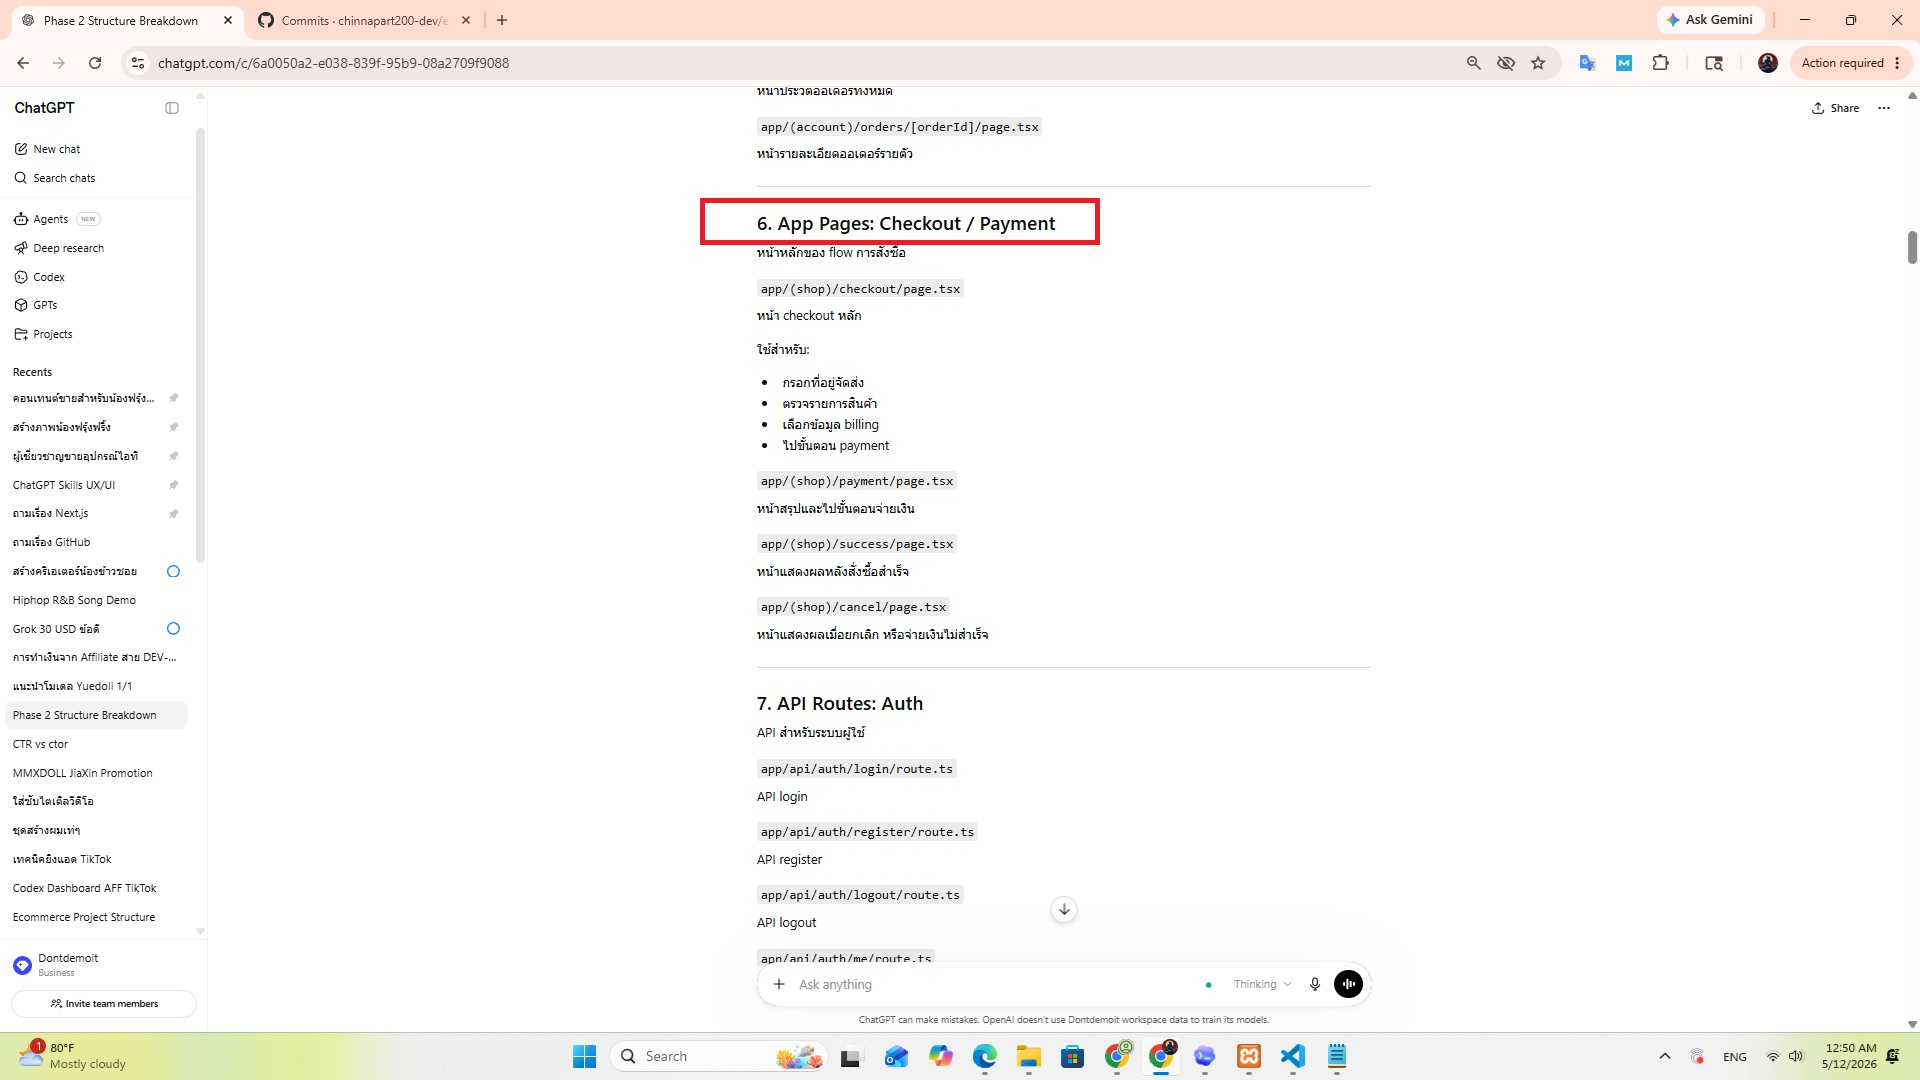
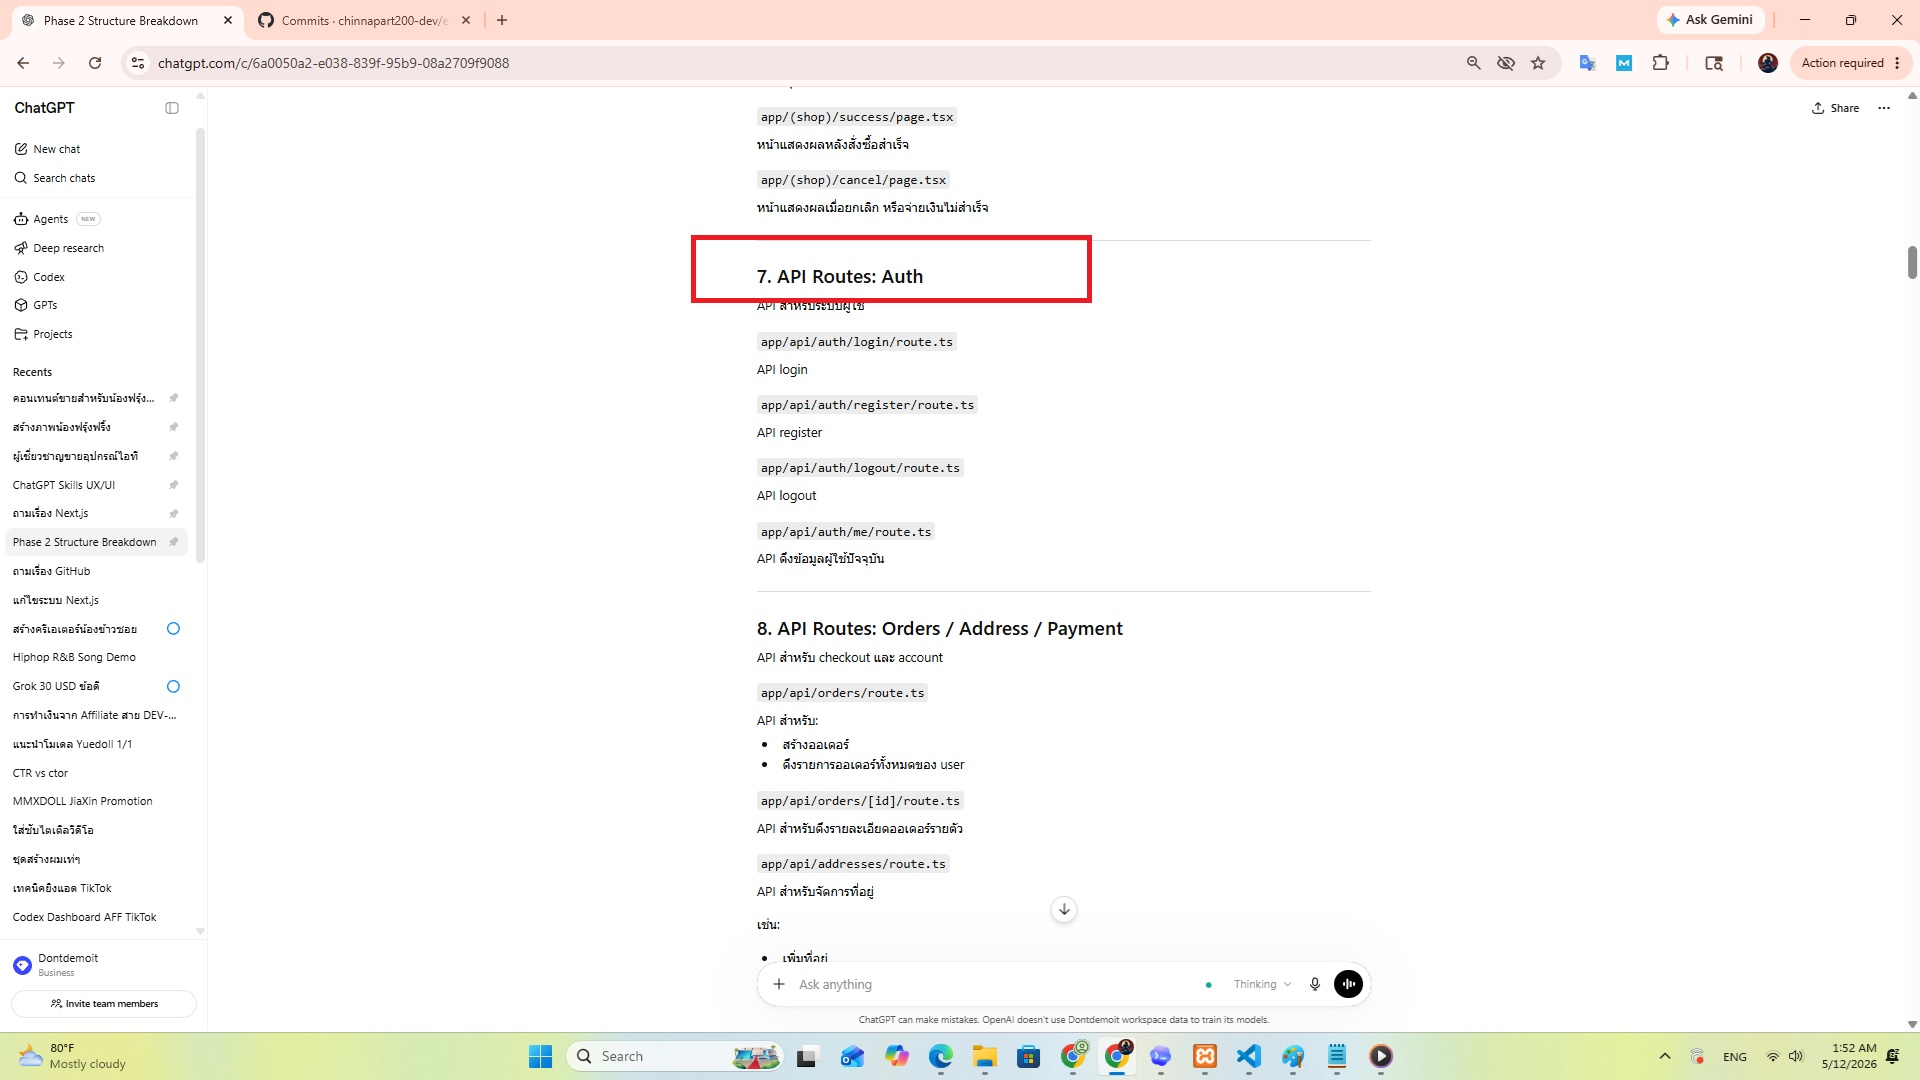
phase2 7. API Routes: Auth

diff --git a/src/app/api/auth/register/route.ts b/src/app/api/auth/register/route.ts
@@ -1,0 +1,58 @@
+import { NextResponse } from "next/server";
+import { registerUser } from "@/services/auth-service";
+import type { ApiResponse } from "@/types/api";
+
+export async function POST(request: Request) {
+  try {
+    const body = (await request.json()) as {
+      firstName?: string;
+      lastName?: string;
+      email?: string;
+      password?: string;
+      confirmPassword?: string;
+      phone?: string;
+    };
+
+    const result = await registerUser({
+      firstName: body.firstName ?? "",
+      lastName: body.lastName ?? "",
+      email: body.email ?? "",
+      password: body.password ?? "",
+      confirmPassword: body.confirmPassword ?? "",
+      phone: body.phone ?? "",
+    });
+
+    if (!result.ok) {
+      const response: ApiResponse<never> = {
+        success: false,
+        message: result.message,
+        error: result.errors ? JSON.stringify(result.errors) : undefined,
+      };
+
+      return NextResponse.json(response, { status: 400 });
+    }
+
+    const response: ApiResponse<{
+      user: typeof result.data.user;
+    }> = {
+      success: true,
+      data: {
+        user: result.data.user,
+      },
+      message: "Account created successfully.",
+    };
+
+    const nextResponse = NextResponse.json(response, { status: 201 });
+    nextResponse.headers.set("Set-Cookie", result.data.sessionCookie);
+
+    return nextResponse;
+  } catch (error) {
+    const response: ApiResponse<never> = {
+      success: false,
+      message: "Unable to create account.",
+      error: error instanceof Error ? error.message : "Unknown error",
+    };
+
+    return NextResponse.json(response, { status: 500 });
+  }
+}

diff --git a/src/app/api/auth/me/route.ts b/src/app/api/auth/me/route.ts
@@ -1,0 +1,52 @@
+import { cookies } from "next/headers";
+import { NextResponse } from "next/server";
+import { getCurrentUserFromSessionToken } from "@/services/auth-service";
+import { SESSION_COOKIE_NAME } from "@/lib/session";
+import type { ApiResponse } from "@/types/api";
+import type { PublicUser } from "@/types/user";
+
+export async function GET() {
+  try {
+    const cookieStore = await cookies();
+    const token = cookieStore.get(SESSION_COOKIE_NAME)?.value ?? "";
+
+    if (!token) {
+      const response: ApiResponse<never> = {
+        success: false,
+        message: "Not authenticated.",
+      };
+
+      return NextResponse.json(response, { status: 401 });
+    }
+
+    const user = await getCurrentUserFromSessionToken(token);
+
+    if (!user) {
+      const response: ApiResponse<never> = {
+        success: false,
+        message: "Not authenticated.",
+      };
+
+      return NextResponse.json(response, { status: 401 });
+    }
+
+    const response: ApiResponse<{
+      user: PublicUser;
+    }> = {
+      success: true,
+      data: {
+        user,
+      },
+    };
+
+    return NextResponse.json(response);
+  } catch (error) {
+    const response: ApiResponse<never> = {
+      success: false,
+      message: "Unable to load current user.",
+      error: error instanceof Error ? error.message : "Unknown error",
+    };
+
+    return NextResponse.json(response, { status: 500 });
+  }
+}

diff --git a/src/app/api/auth/login/route.ts b/src/app/api/auth/login/route.ts
@@ -1,0 +1,50 @@
+import { NextResponse } from "next/server";
+import { loginUser } from "@/services/auth-service";
+import type { ApiResponse } from "@/types/api";
+
+export async function POST(request: Request) {
+  try {
+    const body = (await request.json()) as {
+      email?: string;
+      password?: string;
+    };
+
+    const result = await loginUser({
+      email: body.email ?? "",
+      password: body.password ?? "",
+    });
+
+    if (!result.ok) {
+      const response: ApiResponse<never> = {
+        success: false,
+        message: result.message,
+        error: result.errors ? JSON.stringify(result.errors) : undefined,
+      };
+
+      return NextResponse.json(response, { status: 400 });
+    }
+
+    const response: ApiResponse<{
+      user: typeof result.data.user;
+    }> = {
+      success: true,
+      data: {
+        user: result.data.user,
+      },
+      message: "Signed in successfully.",
+    };
+
+    const nextResponse = NextResponse.json(response);
+    nextResponse.headers.set("Set-Cookie", result.data.sessionCookie);
+
+    return nextResponse;
+  } catch (error) {
+    const response: ApiResponse<never> = {
+      success: false,
+      message: "Unable to sign in.",
+      error: error instanceof Error ? error.message : "Unknown error",
+    };
+
+    return NextResponse.json(response, { status: 500 });
+  }
+}

diff --git a/src/app/api/auth/logout/route.ts b/src/app/api/auth/logout/route.ts
@@ -1,0 +1,18 @@
+import { NextResponse } from "next/server";
+import { logoutUser } from "@/services/auth-service";
+import type { ApiResponse } from "@/types/api";
+
+export async function POST() {
+  const result = logoutUser();
+
+  const response: ApiResponse<null> = {
+    success: true,
+    data: null,
+    message: "Signed out successfully.",
+  };
+
+  const nextResponse = NextResponse.json(response);
+  nextResponse.headers.set("Set-Cookie", result.sessionCookie);
+
+  return nextResponse;
+}
